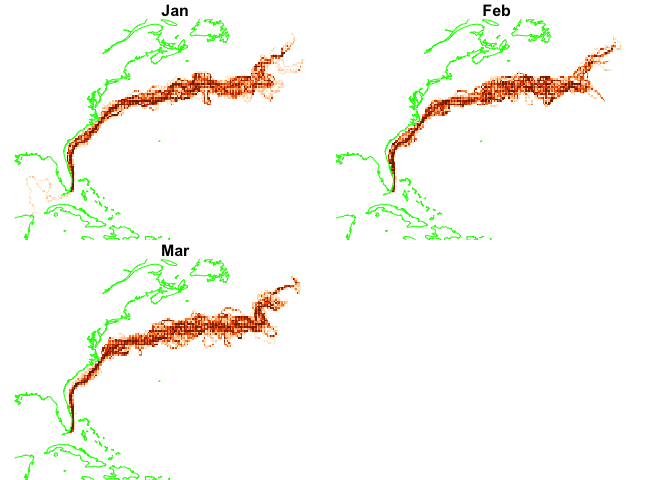
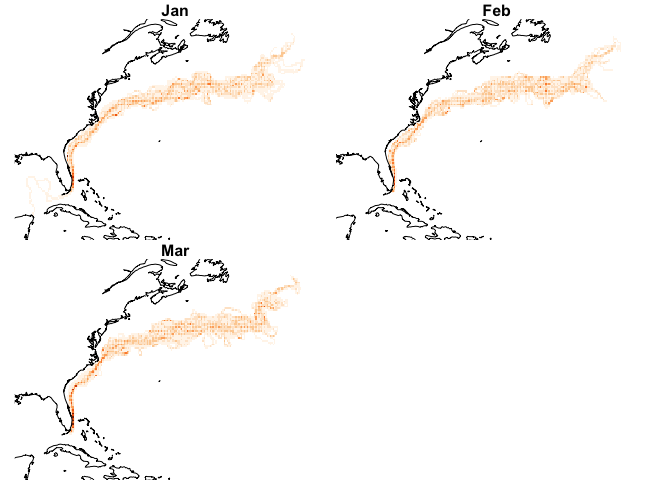
add plots

diff --git a/Climatology-oisst.md b/Climatology-oisst.md
@@ -10,11 +10,51 @@ ff = list_files(pattern = "*mc_mean.tif")
 names(ff) = substring(basename(ff) , 11, 13)
 ff = ff[month.abb]
 x = stars::read_stars(ff, along = list(time = month.abb))
+nbreaks = 9
 plot(dplyr::slice(x, along = "time", index = 1:3), 
      hook = add_coast,
-     nbreaks =10,
+     breaks = "equal",
+     nbreaks = nbreaks,
      key.pos = NULL,
-     col = brewer.pal(9, "Oranges"))
+     col = brewer.pal(nbreaks - 1, "Oranges"))
 ```
 
 ![](Climatology-oisst_files/figure-gfm/unnamed-chunk-1-1.png)<!-- -->
+
+And 2024…
+
+``` r
+ff = list_files(pattern = glob2rx("2024*mon_count.tif"))
+dates = substring(basename(ff), 1, nchar("2010-01-01")) |>
+  as.Date()
+months = format(dates, "%b")
+y = stars::read_stars(ff, along = list(time = months))
+plot(dplyr::slice(y, along = "time", index = 1:3), 
+     hook = add_coast,
+     breaks = "equal",
+     nbreaks = nbreaks,
+     key.pos = NULL,
+     col = brewer.pal(nbreaks - 1 , "Blues"))
+```
+
+![](Climatology-oisst_files/figure-gfm/unnamed-chunk-2-1.png)<!-- -->
+
+And one on top of the other (I hope!)
+
+``` r
+double_plot(x,y, "Jan")
+```
+
+![](Climatology-oisst_files/figure-gfm/unnamed-chunk-3-1.png)<!-- -->
+
+``` r
+double_plot(x,y, "Feb")
+```
+
+![](Climatology-oisst_files/figure-gfm/unnamed-chunk-4-1.png)<!-- -->
+
+``` r
+double_plot(x,y, "Mar")
+```
+
+![](Climatology-oisst_files/figure-gfm/unnamed-chunk-5-1.png)<!-- -->
